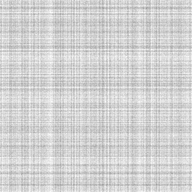
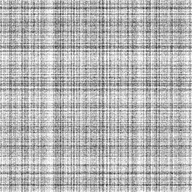
fix(mobile): Card linen weave visible again
Face-up Card linen regenerated at spread 28 (was 8): the weave reads like the printed card instead of vanishing into the charcoal. Same mean brightness.

<details><summary>For AI</summary>

- scripts/make-linen.py with the same seed and mean 16.7; only spread 8 -> 28. Re-running spread 8 reproduces the old file byte-for-byte in pixels, so this is the one knob that changed.
- Composited over #111516: luminance 9-24 (sd 2.8) -> 0-42 (sd 9.7), mean 16.6 -> 17.2.
- The "weave" in the report is this linen (Avi's photo of the printed card, 2026-11-27), not the ScreenBackground squiggle, whose textures and opacity are unchanged since before the unified player.
</details>

Factory-Session: 0b298eac-a8f2-473f-bee9-4c7d8d068812

diff --git a/apps/mobile/scripts/make-linen.py b/apps/mobile/scripts/make-linen.py
@@ -1,7 +1,7 @@
 #!/usr/bin/env python3
 """Regenerates assets/images/linen@3x.png, the face-up Card's linen weave.
 
-usage: python3 scripts/make-linen.py assets/images/linen@3x.png 576 16.7 8
+usage: python3 scripts/make-linen.py assets/images/linen@3x.png 576 16.7 28
 (<out.png> <size> <target_mean> <spread> [seed]): tileable linen weave encoded per pixel as
 black- or white-with-alpha so that, over the charcoal base (#111516), its brightness averages target_mean."""
 import random, sys
